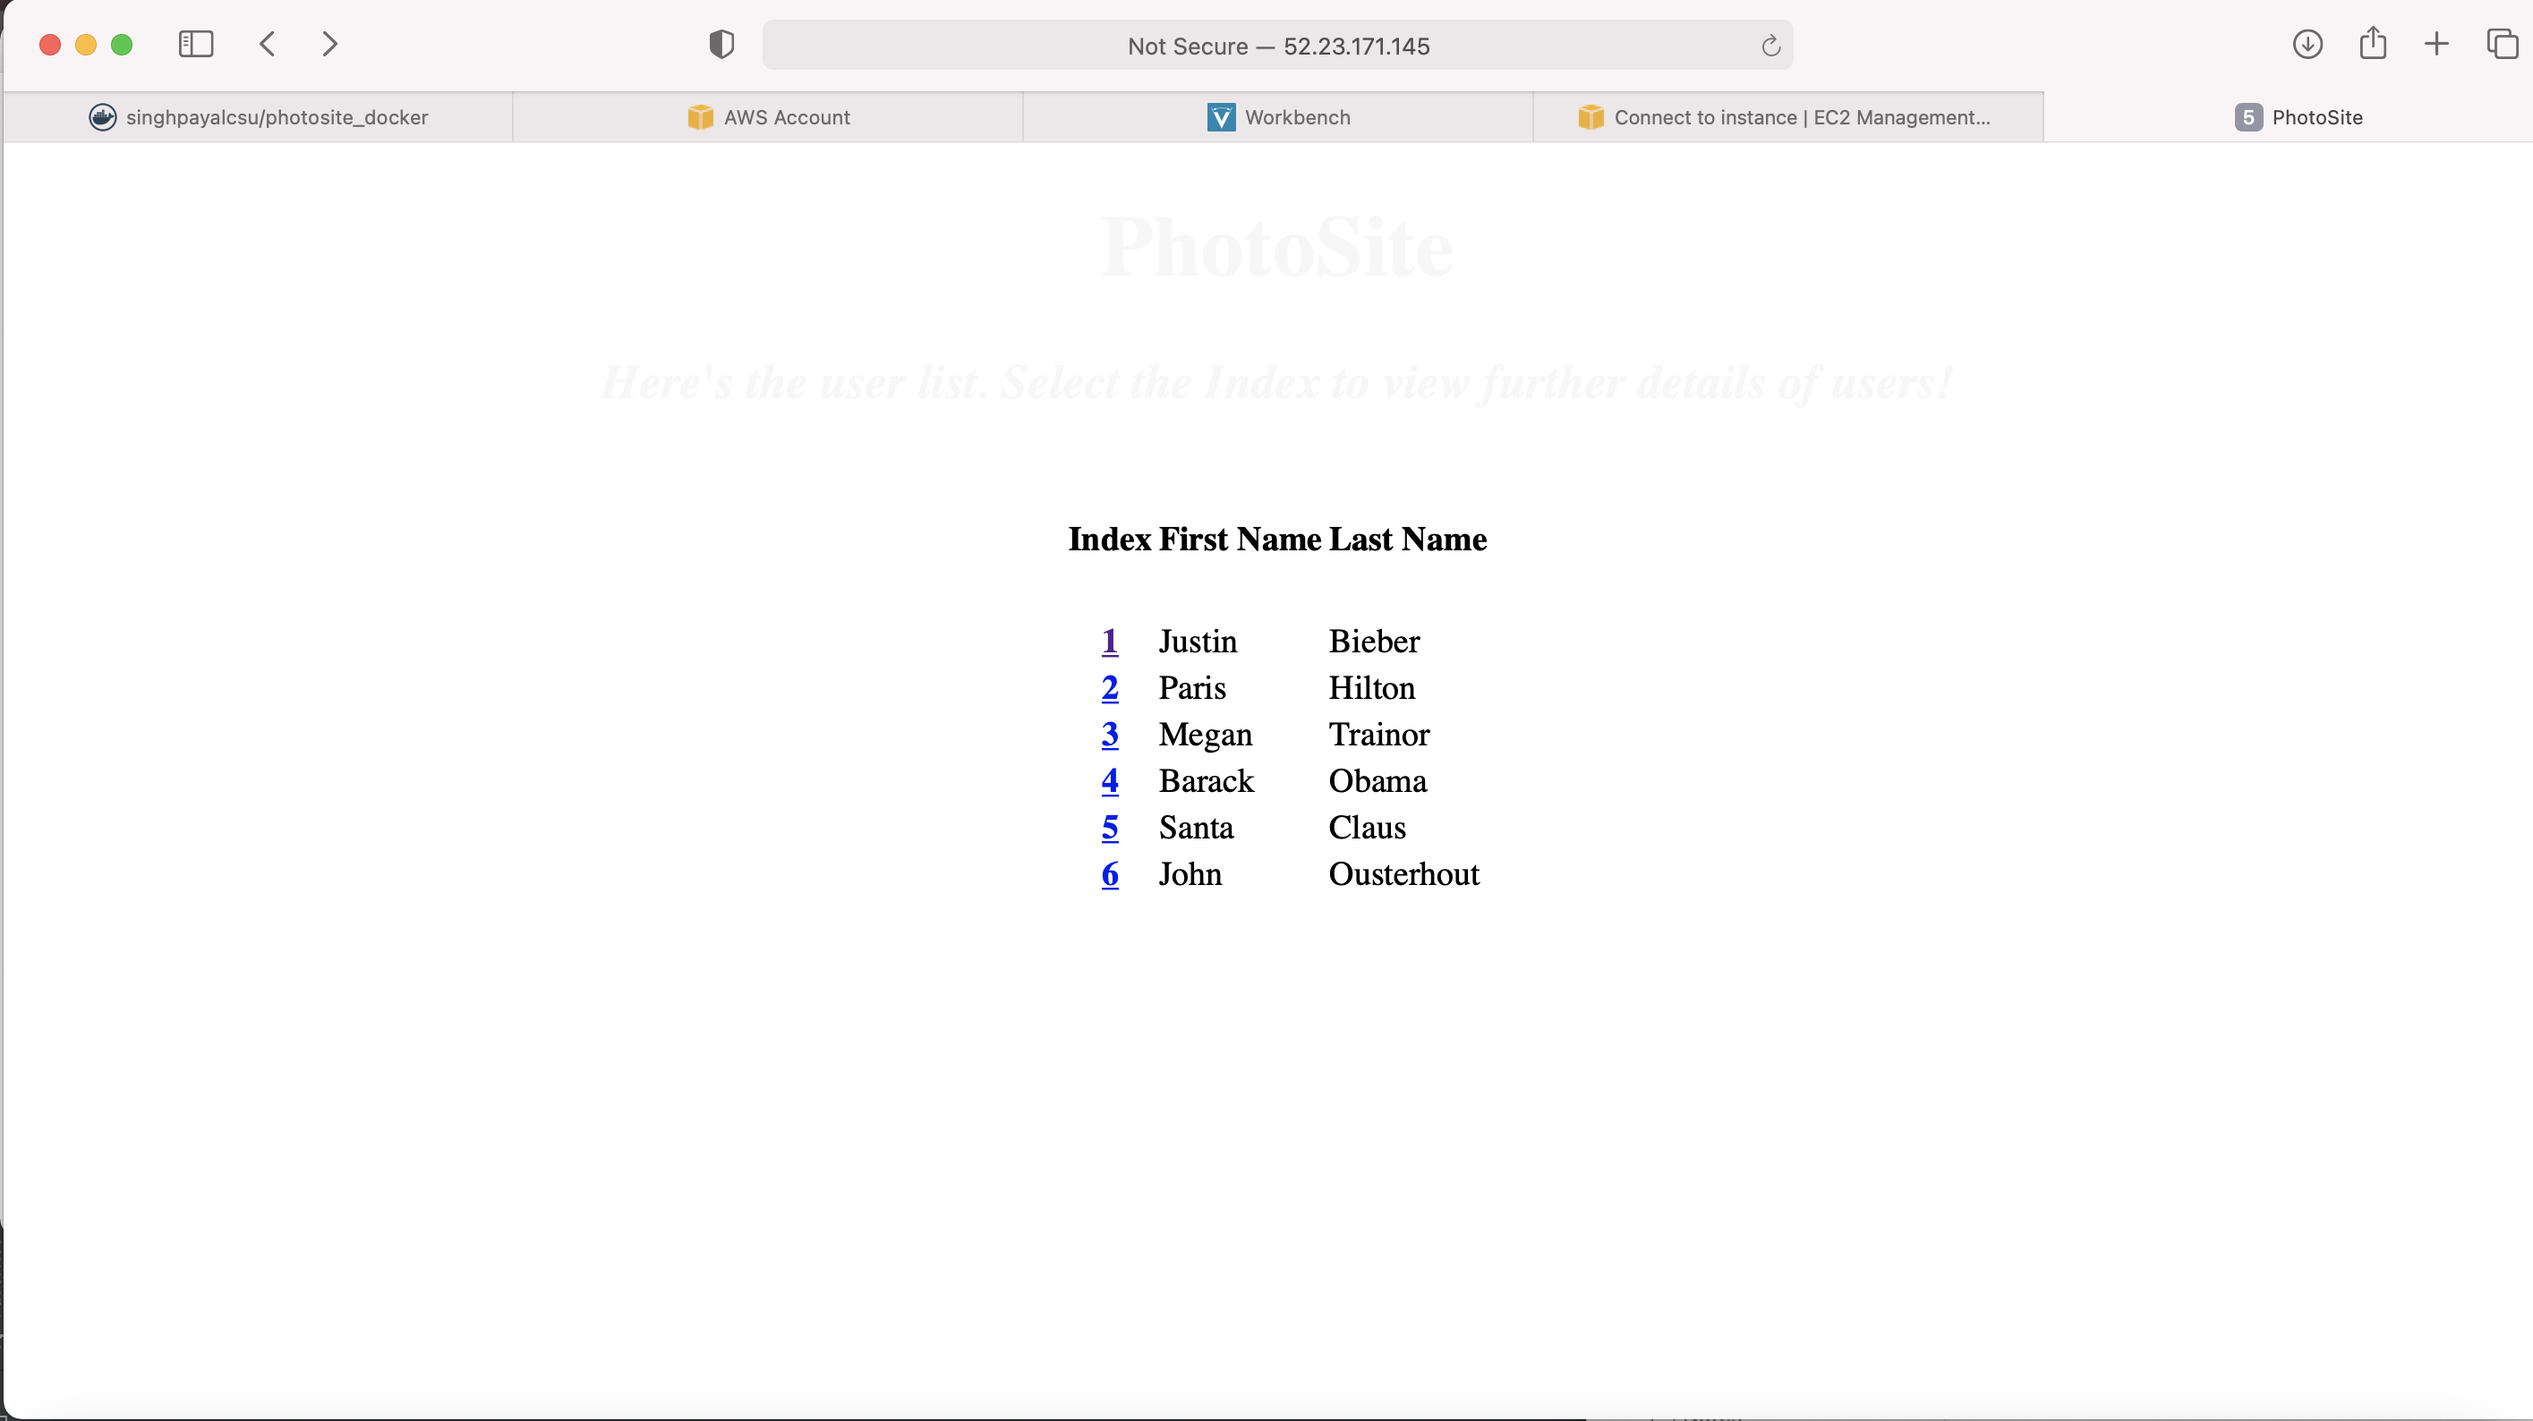
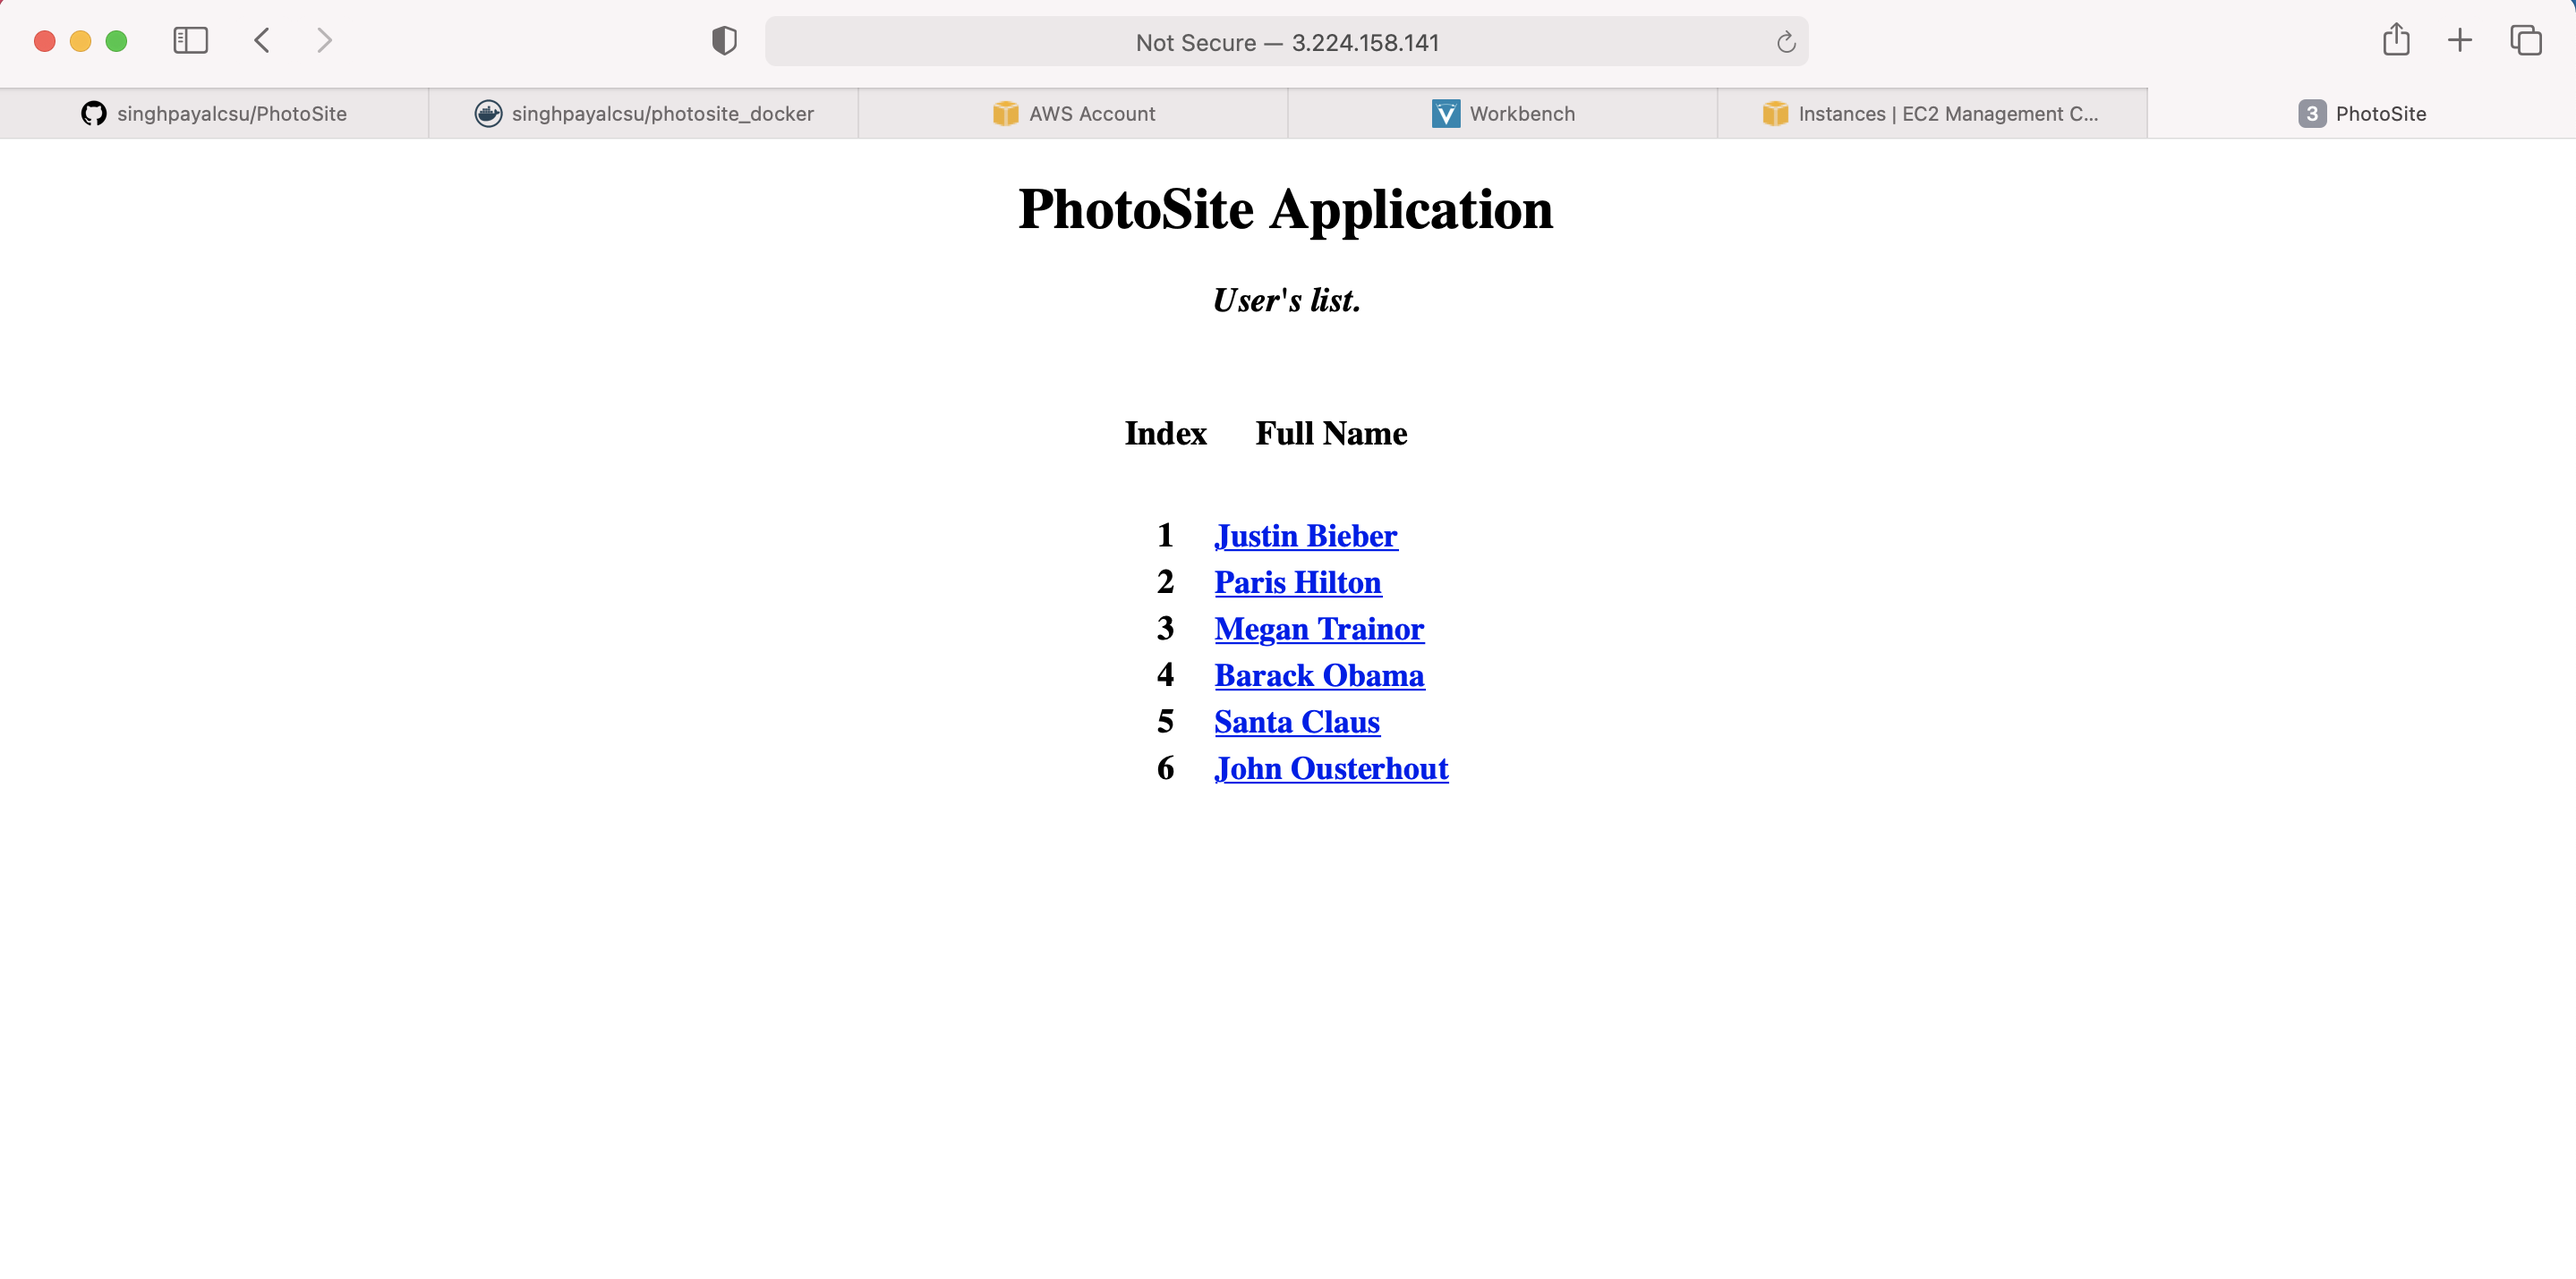
update screenshot with EC2 pics

diff --git a/README.md b/README.md
@@ -281,7 +281,7 @@ Then Run below command to login to EC2 instance (this command info is from above
 
 		chmod 400 photosite_docker.pem
 		
-		ssh -i "photosite_docker.pem" ubuntu@ec2-52-23-171-145.compute-1.amazonaws.com
+		ssh -i "photosite_docker.pem" ubuntu@ec2-3-224-158-141.compute-1.amazonaws.com
 ![screenshot image](screenshot/20.png)
 
 2. This provides EC2 instance terminal for deployment of PhotoSite app using Docker Image.
@@ -355,24 +355,24 @@ Then Run below command to login to EC2 instance (this command info is from above
 
 2. To start docker service on EC2 instance 
 
-		udo service docker start
+		sudo service docker start
 
 3. To install and run docker image of PhotoSite 
 
-		sudo docker run -it -p 3000:3000 singhpayalcsu/photosite 
+		sudo docker run -it -p 3000:3000 singhpayalcsu/photosite_docker 
 This will install PhotoSite from Docker Hub if not install and then run the PhotoSite.
 This will start PhotoSite server in listening mode.
 ![screenshot image](screenshot/26.png)
 
 ##### AWS EC2 instance running PhotoSite Access
-1. Open "http://52.23.171.145:3000/user/index" PhotoSite URL in browser. This shows PhotoSite app's HOME page.
+1. Open "http://3.224.158.141:3000/user/index" PhotoSite URL in browser. This shows PhotoSite app's HOME page.
 Click on index #4 and it will open new page. This will shows images, comments posted with date & time.
 ![screenshot image](screenshot/27.png)
 ![screenshot image](screenshot/28.png)
 ![screenshot image](screenshot/29.png)
 
 
-## SECTION 3) This application is working properly.
+## SECTION 3) This application is working properly end to end. No open issue is present.
 
 
 
